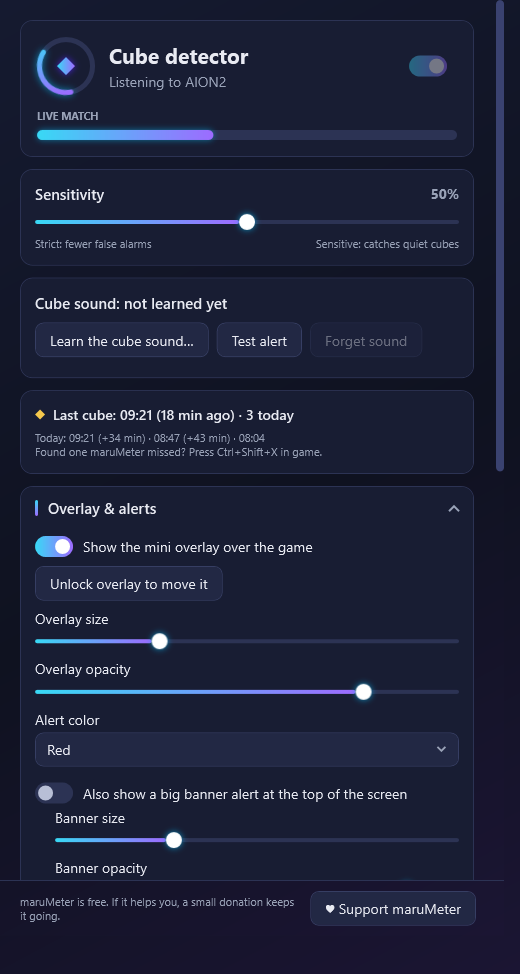
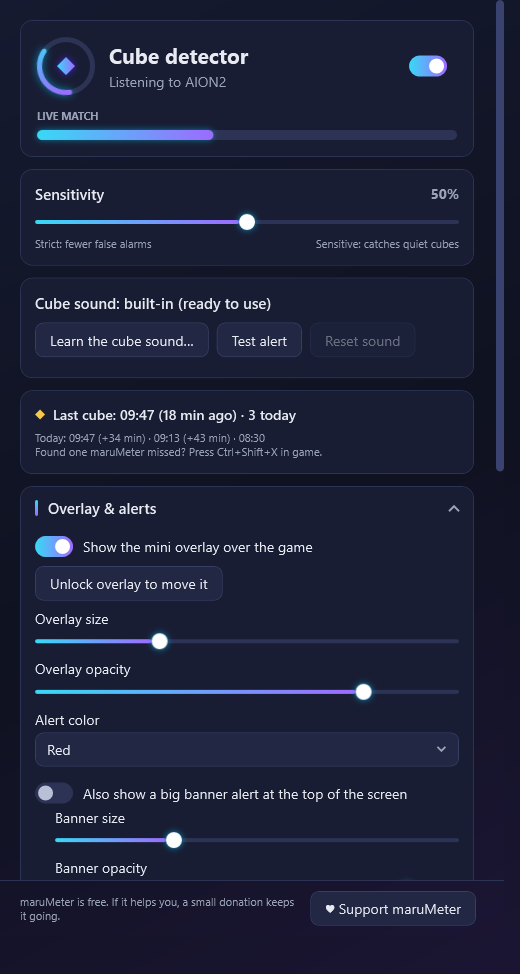
The cube detector works out of the box (built-in cube sound)

diff --git a/README.md b/README.md
@@ -33,13 +33,12 @@ A free Windows companion app for **Aion 2**:
 
 ## Getting started with the cube detector
 
-1. In maruMeter, click **Learn the cube sound…**
-2. Play a video of someone finding a Hidden Cube and pick your browser in **Listen to**.
-3. When the cube appears, press **Ctrl+Shift+C** (or click **Found it!**), check the result and click **Keep**.
-   One to three examples is enough.
-4. Play Aion 2. When the cube's hum is detected, the overlay shows **CUBE NEARBY ◄ LEFT · CLOSE**.
+maruMeter comes with a **built-in cube sound**, so there's nothing to set up: start it, play Aion 2, and when a cube's
+hum is detected the overlay shows **CUBE NEARBY ◄ LEFT · CLOSE**.
 
-You can also teach it in game: when you hear a cube, press **Ctrl+Shift+C** and maruMeter learns from the last 30 seconds.
+**Optional:** you can teach it your own recordings with **Learn the cube sound…** (or press **Ctrl+Shift+C** in game
+when you hear a cube, and it learns from the last 30 seconds). If anything goes wrong, **Reset sound** brings back the
+built-in sound.
 
 ![maruMeter](images/main-window.png)
 
